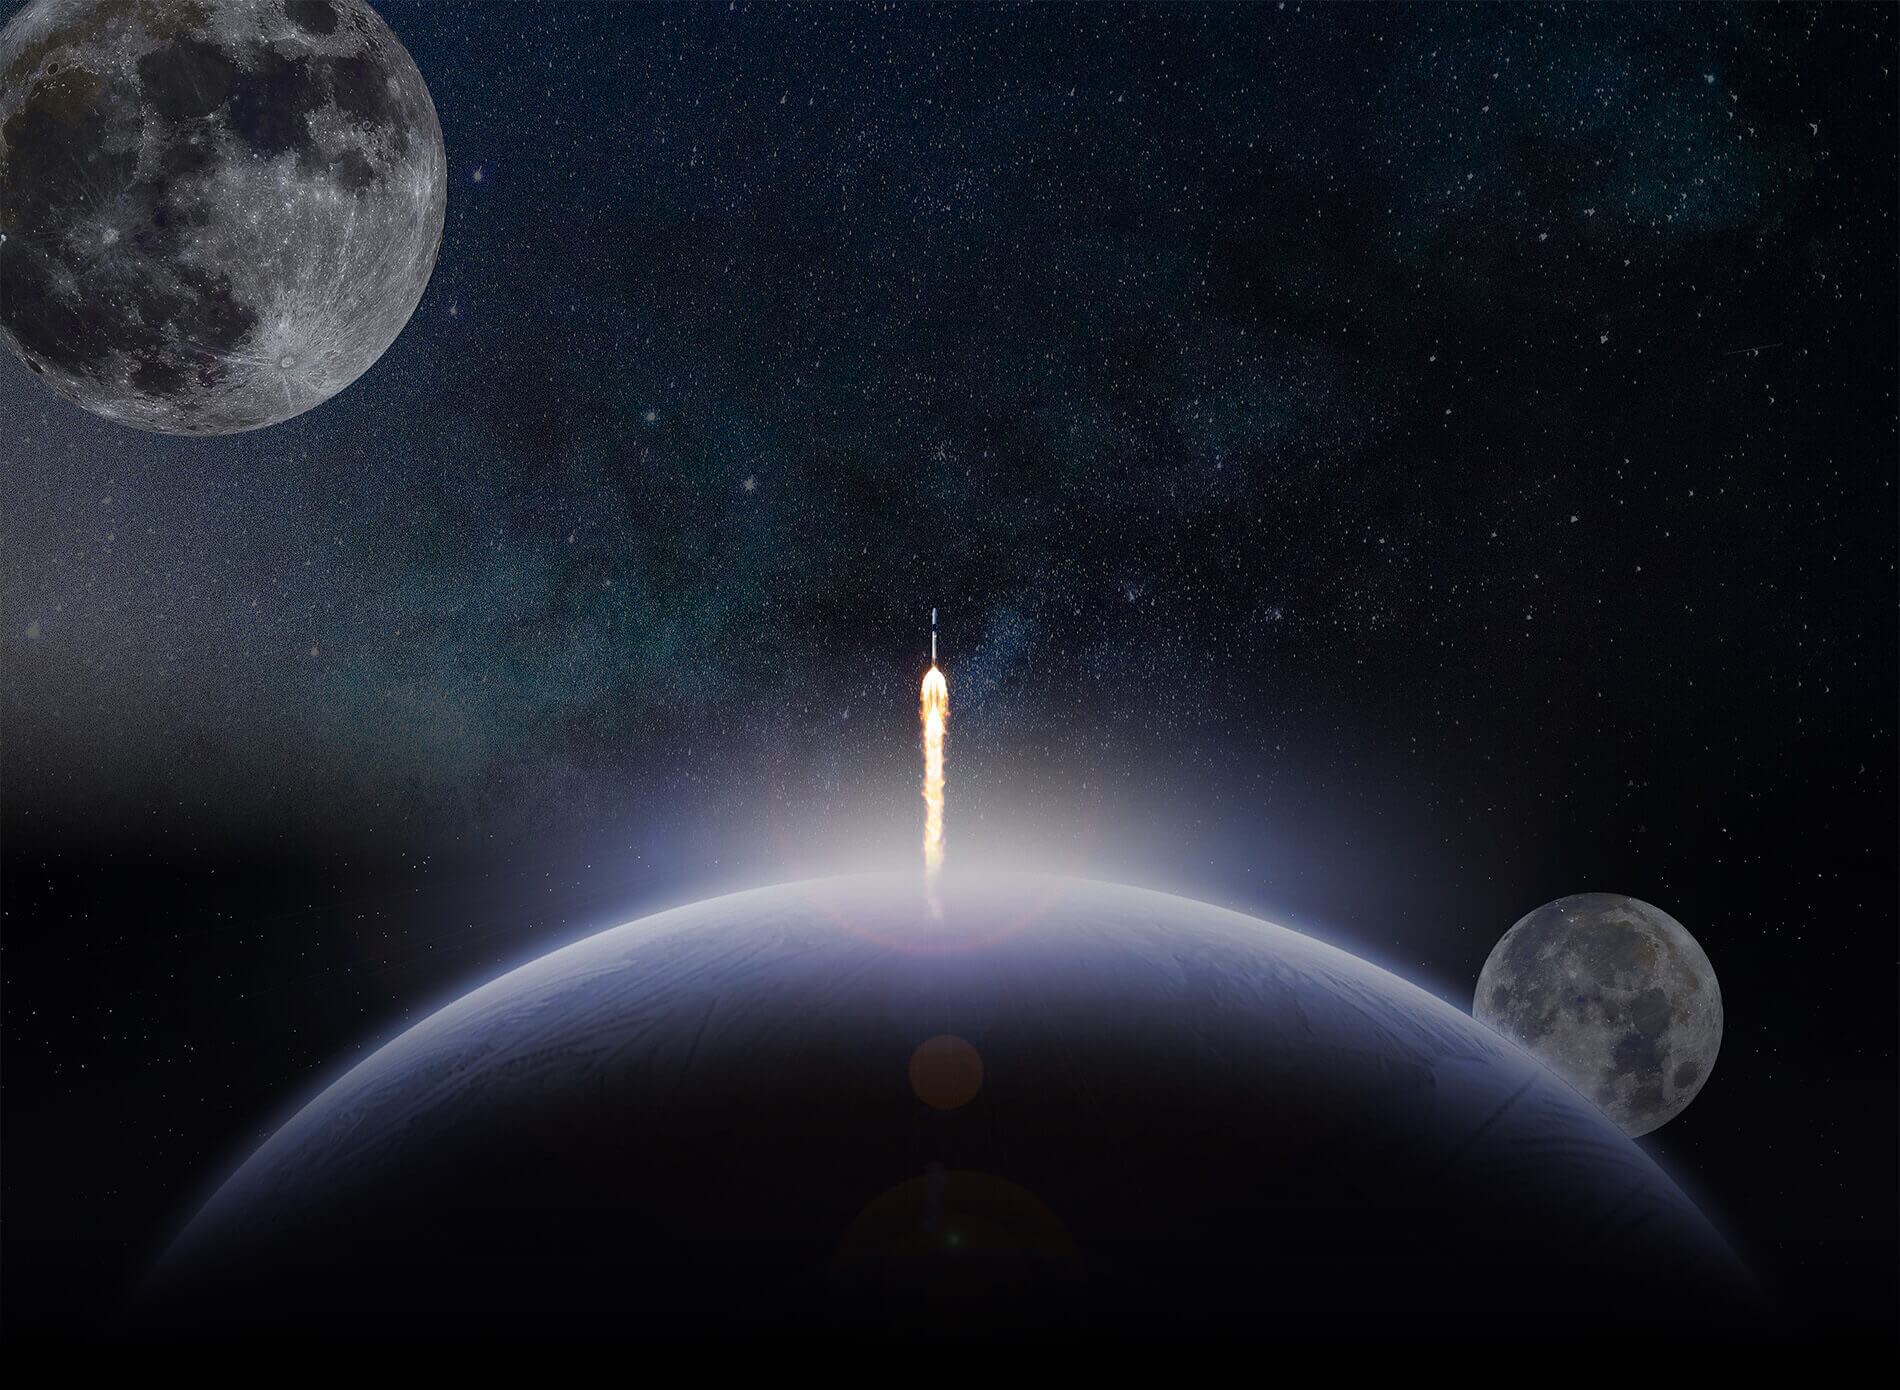
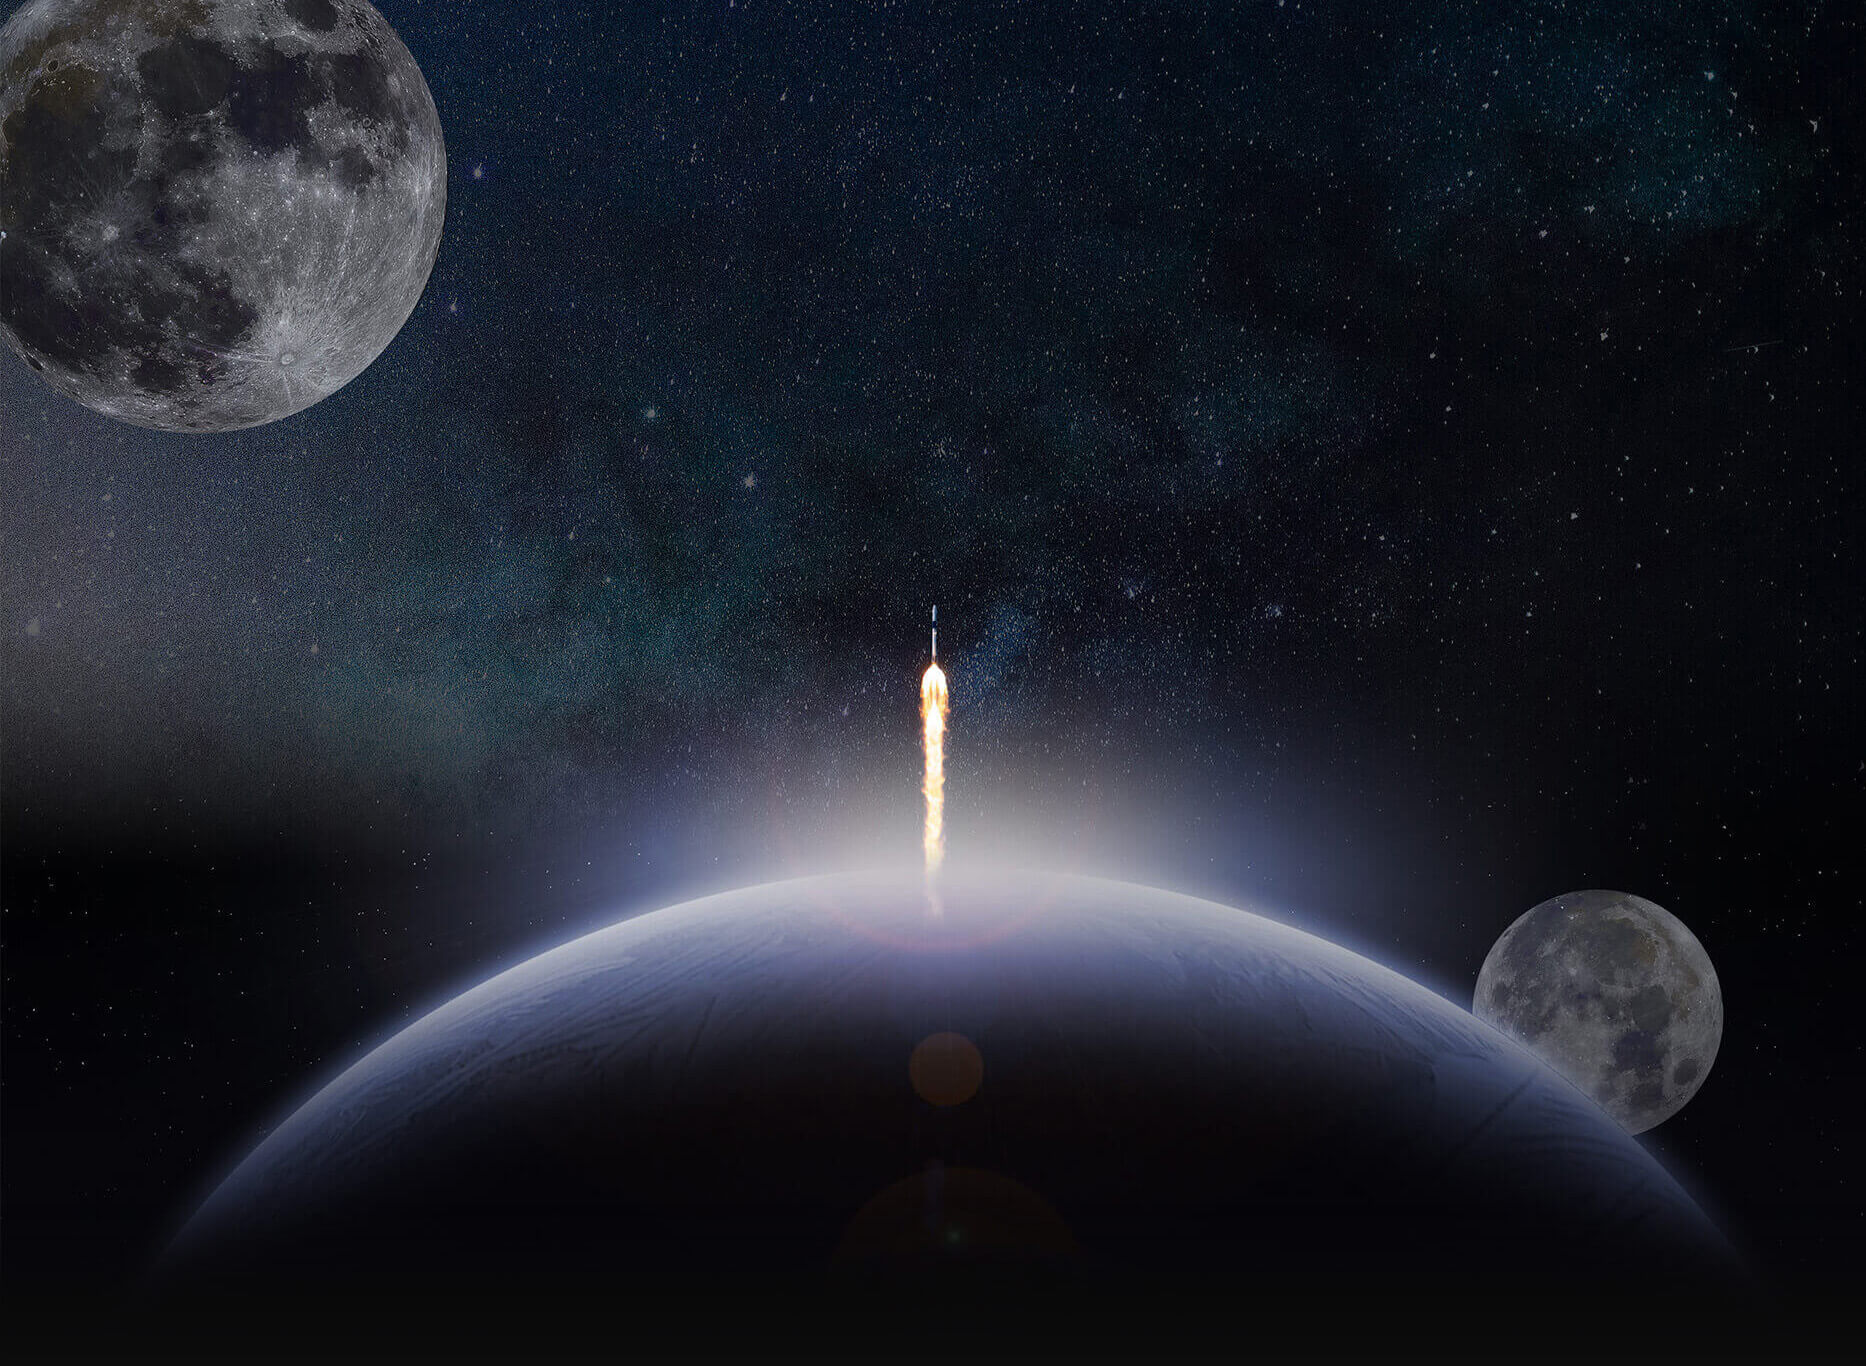
Refactor: Added propper comments.
Reposition rocket in hero image to be in the center

diff --git a/index.html b/index.html
@@ -131,10 +131,10 @@
                 <div class="feature__card feature__card--launches">
                     <i class="fas fa-rocket feature__card__icon"></i>
                     <div class="feature__card__text">
-                        <h2 class="feature__card__title">Upcomming launches</h2>
+                        <h2 class="feature__card__title">Upcoming launches</h2>
                         <p class="feature__card__blurb">
                             Get an updated and detailed overview of all past and
-                            upcomming space launches.
+                            upcoming space launches.
                         </p>
                         <a href="launches.html" class="btn btn--primary"
                             >See launches</a

diff --git a/launches.html b/launches.html
@@ -3,7 +3,7 @@
     <head>
         <meta charset="UTF-8" />
         <meta name="viewport" content="width=device-width, initial-scale=1.0" />
-        <title>SpaceX | Upcomming launches</title>
+        <title>SpaceX | Upcoming launches</title>
         <link rel="stylesheet" href="https://use.typekit.net/bmg2lej.css" />
         <link
             href="https://fonts.googleapis.com/css2?family=Montserrat:wght@100;200;400;700;900&display=swap"
@@ -68,7 +68,7 @@
         </header>
 
         <main>
-            <!-- Upcomming launches from API -->
+            <!-- Upcoming launches from API -->
             <section class="launches max-width">
                 <div class="launches__grid">
                     <div class="launches__grid__title-container">

diff --git a/js/launches.js b/js/launches.js
@@ -11,12 +11,12 @@ filter.addEventListener("change", function () {
     fetchLaunches(selectedFilter);
 });
 
-// Fetch the upcomming launches
+// Fetch the upcoming launches
 // and display as HTML on next launches page
 const errorContainer = document.querySelector(".launches-error-container");
 const loader = document.querySelector(".loader");
 
-// Fetch upcomming SpaceX launches
+// Fetch upcoming SpaceX launches
 async function fetchLaunches(filter) {
     try {
         const url = "https://api.spacexdata.com/v4/launches" + filter;

diff --git a/js/nextLaunch.js b/js/nextLaunch.js
@@ -69,7 +69,7 @@ function displayCountdown(nextLaunch) {
     }, 1000);
 }
 
-// Display the next upcomming launch
+// Display the next upcoming launch
 // in the feature section on the homepage
 
 function displayNextLaunch(nextLaunch) {

diff --git a/js/apod.js b/js/apod.js
@@ -25,6 +25,8 @@ async function fetchAPOD() {
 fetchAPOD();
 
 function displayAPOD(apod) {
+    console.log(apod);
+
     // Get the image elements from the API result
     const mediaUrl = apod.url;
     const title = apod.title;

diff --git a/css/launches.css b/css/launches.css
@@ -19,7 +19,7 @@ Next launch featured on homepage
 }
 
 /************** 
-Upcomming launches page
+Upcoming launches page
 ***************/
 
 .launches {
